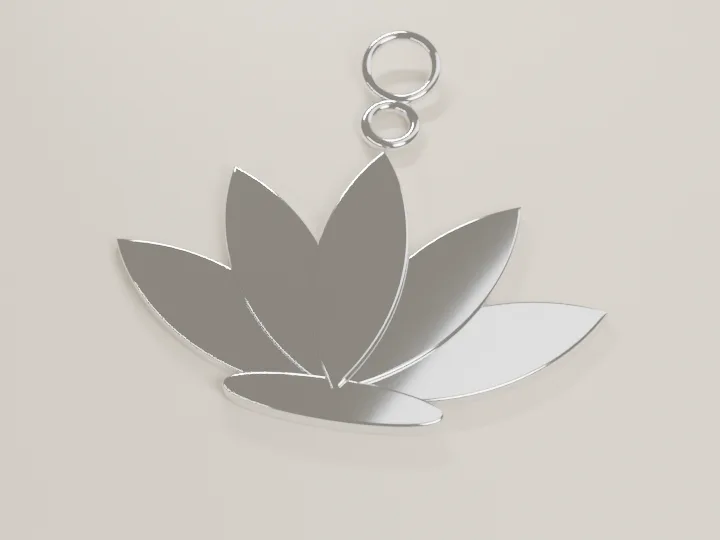
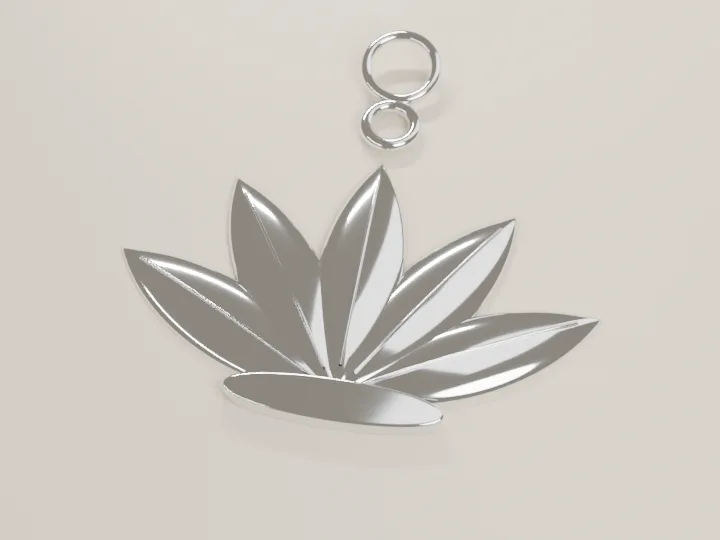
feat(site): sculpted bee and lotus, a real lobster clasp, wound wire on the spool
- bee: domed head and body, raised stripes, engraved wing veins, eyes,
  antennae and stinger
- lotus: pillowy domed petals with a raised centre vein
- lobster clasp: slim claw open on one side, a gate in the opening, hinge pin
  and trigger tab
- wire spool: the wire is wound turn by turn in two layers on a hub

Changed region(s): [[0.1528, 0.2667, 0.825, 0.7407]]

diff --git a/scripts/render_site_art.py b/scripts/render_site_art.py
@@ -430,30 +430,10 @@ def _range(start, stop, n):
 
 
 def charm_shapes(kind):
-    """(points, extra height) for each solid piece of a charm."""
+    """(points, extra height) for each flat piece of a charm (bee and lotus are sculpted)."""
     if kind == "moon":
         # The star overlaps the inner edge of the moon, so the charm is cast in one piece.
         return [(crescent_pts(), 0.0), (star_pts(43, 61, 10.5), 0.04)]
-    if kind == "bee":
-        wings = [
-            (ellipse_pts(37, 46, 11, 7, -25), -0.02),
-            (ellipse_pts(63, 46, 11, 7, 25), -0.02),
-        ]
-        body = [(circle_pts(50, 37, 7), 0.0), (ellipse_pts(50, 62, 13, 18), 0.0)]
-        stripes = [
-            (rrect_pts(50 - w / 2, y - 1.6, w, 3.2, 1.5), 0.035)
-            for y, w in ((56, 22), (63, 24), (70, 21))
-        ]
-        return wings + body + stripes
-    if kind == "lotus":
-        petal = cubic((50, 82), (39, 66), (41, 46), (50, 34)) + cubic(
-            (50, 34), (59, 46), (61, 66), (50, 82)
-        )
-        pieces = []
-        for deg, h in ((-62, -0.03), (62, -0.03), (-32, 0.0), (32, 0.0), (0, 0.03)):
-            pieces.append(([P(x, y) for x, y in rotate(petal, deg, 50, 82)], h))
-        pieces.append((ellipse_pts(50, 84, 18, 3.5), 0.0))
-        return pieces
     if kind == "cactus":
         return [
             (rrect_pts(43, 30, 14, 54, 6.9), 0.03),
@@ -465,6 +445,46 @@ def charm_shapes(kind):
     if kind == "initial":
         return [(circle_pts(50, 58, 26), 0.0)]
     raise ValueError(kind)
+
+
+def dome(name, outline, mat, height, base=0.0, rings=14):
+    """A cast, rounded piece: the outline filled and raised into a smooth dome.
+
+    Rings run from the centre out to the outline; z follows a quarter circle, so
+    the edge meets the ground steeply, like a pillowy cast charm.
+    """
+    n = len(outline)
+    cx = sum(x for x, _ in outline) / n
+    cy = sum(y for _, y in outline) / n
+    verts = [(cx, cy, base + height)]
+    for k in range(1, rings + 1):
+        t = math.sin(0.5 * math.pi * k / rings)  # rings bunch up near the edge
+        z = base + height * math.sqrt(max(0.0, 1.0 - t * t))
+        verts += [(cx + (x - cx) * t, cy + (y - cy) * t, z) for x, y in outline]
+    faces = [(0, 1 + i, 1 + (i + 1) % n) for i in range(n)]
+    for k in range(rings - 1):
+        a, b = 1 + k * n, 1 + (k + 1) * n
+        faces += [(a + i, b + i, b + (i + 1) % n, a + (i + 1) % n) for i in range(n)]
+    last = 1 + (rings - 1) * n
+    faces.append(tuple(reversed(range(last, last + n))))
+    me = bpy.data.meshes.new(name)
+    me.from_pydata(verts, [], faces)
+    bm = bmesh.new()
+    bm.from_mesh(me)
+    bmesh.ops.recalc_face_normals(bm, faces=bm.faces)
+    bm.to_mesh(me)
+    bm.free()
+    for poly in me.polygons:
+        poly.use_smooth = len(poly.vertices) <= 4
+    obj = link(bpy.data.objects.new(name, me))
+    obj.data.materials.append(mat)
+    return obj
+
+
+def ellipse_height(x, y, cx, cy, rx, ry, height, base=0.0):
+    """Height of an elliptical dome (in drawing units for x, y) at a point."""
+    t = min(1.0, math.hypot((x - cx) / rx, (y - cy) / ry))
+    return base + height * math.sqrt(1.0 - t * t)
 
 
 def slab(name, points, mat, thick=0.1, bevel=0.025, lift=0.0, holes=()):
@@ -493,9 +513,12 @@ def charm(code_or_kind, finish=None, at=(0.0, 0.0), yaw=0.0, scale=1.0):
     mat = metal(finish)
     root = link(bpy.data.objects.new(f"{kind}-root", None))
     parts = []
-    for i, (points, extra) in enumerate(charm_shapes(kind)):
-        # Raised details are thicker, wings thinner; a hair of lift keeps faces from coinciding.
-        parts.append(slab(f"{kind}-{i}", points, mat, thick=0.1 + extra, lift=i * 0.0007))
+    if kind in SCULPTED:
+        parts += SCULPTED[kind](mat)
+    else:
+        for i, (points, extra) in enumerate(charm_shapes(kind)):
+            # Raised details are thicker; a hair of lift keeps faces from coinciding.
+            parts.append(slab(f"{kind}-{i}", points, mat, thick=0.1 + extra, lift=i * 0.0007))
     if kind == "initial":
         parts.append(_letter(mat))
     bail = torus(f"{kind}-bail", 4.5 * S, 1.25 * S)
@@ -531,6 +554,81 @@ def _letter(mat):
     return obj
 
 
+def _bee(mat):
+    """Domed head and body with raised stripes, engraved wings, eyes, antennae, stinger."""
+    parts = []
+    wing_top = 0.06 + 2 * 0.025
+    for side, (cx, rot) in enumerate(((37, -25), (63, 25))):
+        parts.append(slab(f"wing{side}", ellipse_pts(cx, 46, 11, 7, rot), mat, thick=0.06))
+        c, sn = math.cos(math.radians(rot)), math.sin(math.radians(rot))
+
+        def wing_pt(angle, scale, cx=cx, c=c, sn=sn):
+            a = math.radians(angle)
+            x, y = 11 * scale * math.cos(a), 7 * scale * math.sin(a)
+            return P(cx + x * c - y * sn, 46 + x * sn + y * c)
+
+        root = wing_pt(0 if side == 0 else 180, 0.75)
+        fan = (150, 180, 210) if side == 0 else (30, 0, -30)
+        for k, angle in enumerate(fan):
+            tip = wing_pt(angle, 0.82)
+            pts = [
+                (root[0] + (tip[0] - root[0]) * f, root[1] + (tip[1] - root[1]) * f)
+                for f in _range(0, 1, 8)
+            ]
+            parts.append(
+                tube(f"vein{side}{k}", [(x, y, wing_top + 0.004) for x, y in pts], 0.012, mat)
+            )
+        rim = [wing_pt(a, 0.8) for a in range(0, 360, 6)]
+        parts.append(
+            tube(f"rim{side}", [(x, y, wing_top + 0.004) for x, y in rim], 0.012, mat, cyclic=True)
+        )
+
+    parts.append(dome("head", circle_pts(50, 37, 7, n=64), mat, 0.17, base=0.0))
+    for x in (46.8, 53.2):
+        eye = sphere("eye", 1.5 * S, seg=24, rings=12)
+        eye.location = (*P(x, 35.5), ellipse_height(x, 35.5, 50, 37, 7, 7, 0.17) + 0.01)
+        eye.data.materials.append(mat)
+        parts.append(eye)
+    for sign in (-1, 1):
+        stalk = [P(50 + sign * 3, 31), P(50 + sign * 6, 26), P(50 + sign * 9.5, 22.5)]
+        parts.append(tube("antenna", [(x, y, 0.08) for x, y in stalk], 0.018, mat))
+        tip = sphere("antenna-tip", 1.4 * S, seg=24, rings=12)
+        tip.location = (*stalk[-1], 0.08)
+        tip.data.materials.append(mat)
+        parts.append(tip)
+
+    parts.append(dome("body", ellipse_pts(50, 62, 13, 18, n=96), mat, 0.21))
+    for y in (54, 61.5, 69):
+        half = 13 * math.sqrt(max(0.0, 1 - ((y - 62) / 18) ** 2)) * 0.9
+        xs = _range(50 - half, 50 + half, 24)
+        pts = [(*P(x, y), ellipse_height(x, y, 50, 62, 13, 18, 0.21) + 0.004) for x in xs]
+        parts.append(tube("stripe", pts, 0.032, mat))
+    parts.append(slab("stinger", [P(47.8, 78.5), P(52.2, 78.5), P(50, 85)], mat, thick=0.06))
+    return parts
+
+
+def _lotus(mat):
+    """Five pillowy petals, outer ones underneath, each with a raised centre vein."""
+    parts = []
+    petal = cubic((50, 82), (39, 66), (41, 46), (50, 34)) + cubic(
+        (50, 34), (59, 46), (61, 66), (50, 82)
+    )
+    height = 0.12
+    for deg, base in ((-62, 0.0), (62, 0.0), (-32, 0.02), (32, 0.02), (0, 0.04)):
+        outline = [P(x, y) for x, y in rotate(petal, deg, 50, 82)]
+        parts.append(dome(f"petal{deg}", outline, mat, height, base=base))
+        vein = []
+        for s_ in _range(-0.8, 0.8, 20):
+            x, y = rotate([(50, 58 + 24 * s_)], deg, 50, 82)[0]
+            vein.append((*P(x, y), base + height * math.sqrt(1 - s_ * s_) + 0.006))
+        parts.append(tube(f"vein{deg}", vein, 0.014, mat))
+    parts.append(slab("lotus-base", ellipse_pts(50, 84, 18, 3.5), mat, thick=0.1))
+    return parts
+
+
+SCULPTED = {"bee": _bee, "lotus": _lotus}
+
+
 # --------------------------------------------------------------------------- findings
 
 
@@ -554,62 +652,73 @@ def finding(kind):
             gap.operation = "DIFFERENCE"
             gap.object = cut
     elif kind == "clasp":
-        # A lobster clasp: a claw-shaped body around its opening, the spring lever on
-        # top of the right side, a trigger nub, and the ring it hangs from.
+        # A lobster clasp seen from the side: a teardrop claw open on one side,
+        # the spring gate filling the opening, a trigger tab and the end ring.
         gold = metal("gold")
         k = 1.5
 
-        def at(points):
-            return [(x * k, y * k) for x, y in (P(px, py) for px, py in points)]
+        def tear(theta, rx, ry, cy):
+            """Teardrop point in drawing units: theta 0 is the narrow top, clockwise."""
+            a = math.radians(theta)
+            narrow = 0.55 + 0.45 * (1 - math.cos(a)) / 2
+            x, y = P(50 + rx * math.sin(a) * narrow, cy - ry * math.cos(a))
+            return (x * k, y * k)
 
-        outer = cubic((50, 30), (66, 36), (72, 70), (50, 86)) + cubic(
-            (50, 86), (30, 72), (32, 40), (50, 30)
-        )
-        hole = cubic((51, 42), (60, 47), (62, 68), (50, 76)) + cubic(
-            (50, 76), (41, 68), (42, 50), (51, 42)
-        )
-        slab("clasp-body", at(outer), gold, thick=0.26, bevel=0.06, holes=[at(hole)])
-        lever = cubic((53, 44), (60, 48), (62, 62), (57, 70)) + cubic(
-            (57, 70), (59, 62), (58, 50), (53, 44)
-        )
-        slab("clasp-lever", at(lever), gold, thick=0.2, bevel=0.04, lift=0.2)
-        slab(
-            "clasp-nub",
-            at([(61, 50), (68, 47), (69, 50), (62, 54)]),
-            gold,
-            thick=0.16,
-            bevel=0.03,
-            lift=0.2,
-        )
+        gap = (45.0, 100.0)  # where the gate sits, on the right side
+        outer = [tear(t, 14, 27, 60) for t in _range(gap[1], gap[0] + 360, 120)]
+        inner = [tear(t, 8, 19, 62) for t in _range(gap[0] + 360, gap[1], 100)]
+        slab("clasp-body", outer + inner, gold, thick=0.3, bevel=0.07)
+        # The gate: a flat band filling the opening, with a hairline gap each side.
+        z = 0.3 / 2 + 0.07
+        gate_out = [tear(t, 13, 26, 60.5) for t in _range(gap[0] - 3, gap[1] + 2, 40)]
+        gate_in = [tear(t, 9, 20, 61.5) for t in _range(gap[1] + 2, gap[0] - 3, 40)]
+        slab("clasp-gate", gate_out + gate_in, gold, thick=0.24, bevel=0.05, lift=0.02)
+        pin = cylinder("clasp-pin", 0.07, 0.5)
+        pin.location = (*tear(gap[0] - 1, 11, 23, 61), z)
+        pin.data.materials.append(gold)
+        root = tear(70, 12.5, 25.5, 60.5)
+        tip = tear(70, 17.5, 30, 60.5)
+        tube("clasp-trigger", [(*root, z + 0.06), (*tip, z + 0.06)], 0.09, gold)
+        nub = sphere("clasp-trigger-tip", 0.12, seg=24, rings=12)
+        nub.location = (*tip, z + 0.06)
+        nub.data.materials.append(gold)
         ring = torus("clasp-ring", 5.5 * S * k, 1.3 * S * k)
-        ring.location = (*[v * k for v in P(50, 23)], 1.3 * S * k)
+        ring.location = (*[v * k for v in P(50, 28.5)], 1.3 * S * k)
         ring.data.materials.append(gold)
     elif kind == "wire":
-        spool = plain("spool", "#2b2622", 0.75)
+        # A spool of beading wire: two flanges on a hub, with the wire really wound
+        # on, turn by turn, in two layers.
+        spool = plain("spool", "#3a332d", 0.55)
         for z in (0.06, 1.04):
-            flange = cylinder("flange", 1.25, 0.12)
+            flange = cylinder("flange", 1.25, 0.12, seg=96)
             flange.location.z = z
             flange.data.materials.append(spool)
-        core = cylinder("wire", 0.95, 0.86)
-        core.location.z = 0.55
-        wound = metal("rhodium")
-        nt = wound.node_tree
-        wave = nt.nodes.new("ShaderNodeTexWave")
-        wave.bands_direction = "Z"
-        wave.inputs["Scale"].default_value = 40.0
-        bump = nt.nodes.new("ShaderNodeBump")
-        bump.inputs["Strength"].default_value = 0.4
-        nt.links.new(wave.outputs["Fac"], bump.inputs["Height"])
-        nt.links.new(bump.outputs["Normal"], nt.nodes["Principled BSDF"].inputs["Normal"])
-        core.data.materials.append(wound)
+            soft = flange.modifiers.new("soft-edge", "BEVEL")
+            soft.width = 0.02
+            soft.segments = 3
+        hub = cylinder("hub", 0.82, 0.86, seg=96)
+        hub.location.z = 0.55
+        hub.data.materials.append(spool)
+        wire = metal("rhodium")
+        r_wire = 0.024
+        bottom, top = 0.12 + r_wire, 0.98 - r_wire
+        turns = int((top - bottom) / (2 * r_wire))
+        for layer, radius in enumerate((0.82 + r_wire, 0.82 + 3 * r_wire)):
+            pts = []
+            for i in range(turns * 64 + 1):
+                f = i / 64
+                a = 2 * math.pi * f + layer * math.pi
+                pts.append((radius * math.cos(a), radius * math.sin(a), bottom + 2 * r_wire * f))
+            tube(f"wire-layer{layer}", pts, r_wire, wire)
+        r_out = 0.82 + 3 * r_wire
         end = [
-            (0.95, 0.0, 0.5),
-            (1.3, -0.15, 0.35),
-            (1.75, -0.35, 0.05),
-            (2.4, -0.45, 0.03),
-            (2.9, -0.2, 0.03),
+            (r_out, 0.0, top),
+            (r_out + 0.25, -0.2, 0.75),
+            (r_out + 0.75, -0.45, 0.25),
+            (r_out + 1.35, -0.55, 0.03),
+            (r_out + 2.0, -0.3, 0.03),
         ]
-        tube("wire-end", end, 0.02, metal("rhodium"))
+        tube("wire-end", end, r_wire, wire)
     elif kind == "memory":
         steel = metal("steel")
         turns, per_turn, radius, pitch = 4, 120, 1.1, 0.13
